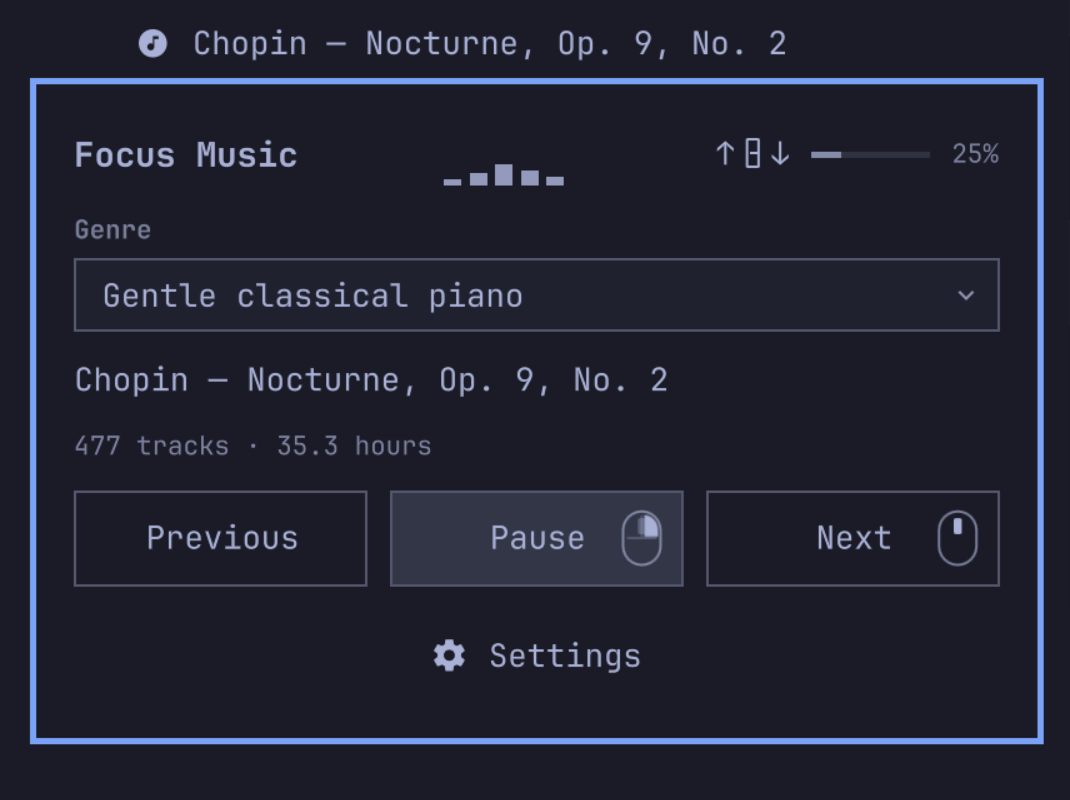
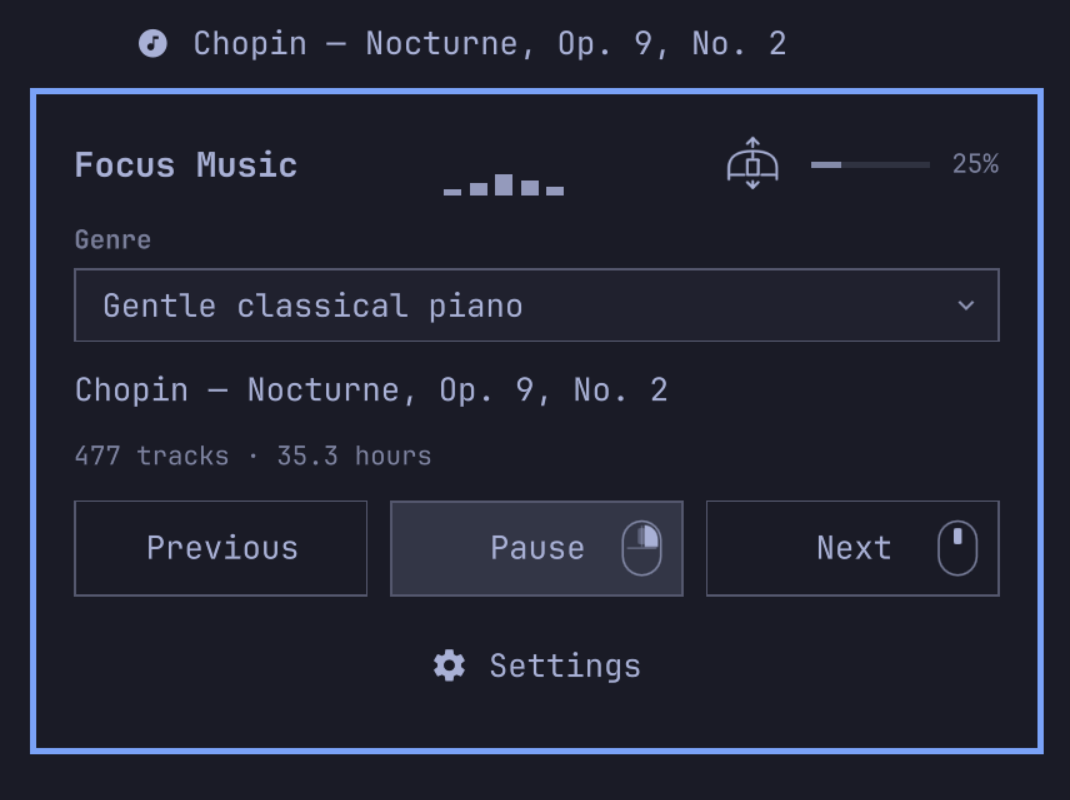
Use cropped mouse scroll hint with close arrows and plain wheel

diff --git a/MouseHint.qml b/MouseHint.qml
@@ -63,38 +63,52 @@ Item {
         visible: root.button !== "scroll"
         opacity: button === "middle" ? 1 : 0.35
     }
-    Rectangle {
+    Canvas {
         visible: root.button === "scroll"
-        anchors.centerIn: parent
-        width: Style.space(5)
-        height: Style.space(11)
-        radius: Style.space(1)
-        color: "transparent"
-        border.width: Style.space(1)
-        border.color: Color.foreground
-        Rectangle {
-            anchors.centerIn: parent
-            width: parent.width - Style.space(2)
-            height: Style.space(1)
-            color: Color.foreground
+        anchors.fill: parent
+        readonly property color ink: Color.foreground
+        onInkChanged: requestPaint()
+        onWidthChanged: requestPaint()
+        onHeightChanged: requestPaint()
+        onPaint: {
+            var ctx = getContext("2d")
+            ctx.reset()
+            ctx.scale(width / 34, height / 26)
+            ctx.strokeStyle = ink
+            ctx.lineWidth = 1.2
+            ctx.lineCap = "round"
+            ctx.lineJoin = "round"
+            // Zoom into the mouse buttons; leave the bottom edges open.
+            ctx.beginPath()
+            ctx.moveTo(6, 20)
+            ctx.lineTo(6, 14.8)
+            ctx.quadraticCurveTo(6, 7, 17, 7)
+            ctx.quadraticCurveTo(28, 7, 28, 14.8)
+            ctx.lineTo(28, 20)
+            ctx.stroke()
+            // Plain wheel outline, without internal horizontal marks.
+            ctx.strokeRect(14.5, 11, 5, 7)
+            ctx.beginPath()
+            ctx.moveTo(17, 8)
+            ctx.lineTo(17, 10)
+            ctx.moveTo(7, 18)
+            ctx.lineTo(13, 18)
+            ctx.moveTo(21, 18)
+            ctx.lineTo(27, 18)
+            ctx.stroke()
+            // Up above and down just below the cropped mouse.
+            ctx.beginPath()
+            ctx.moveTo(14.5, 3.5)
+            ctx.lineTo(17, 1)
+            ctx.lineTo(19.5, 3.5)
+            ctx.moveTo(17, 1)
+            ctx.lineTo(17, 5)
+            ctx.moveTo(17, 21)
+            ctx.lineTo(17, 24)
+            ctx.moveTo(14.5, 21.5)
+            ctx.lineTo(17, 24)
+            ctx.lineTo(19.5, 21.5)
+            ctx.stroke()
         }
-    }
-    Text {
-        visible: root.button === "scroll"
-        anchors.left: parent.left
-        anchors.verticalCenter: parent.verticalCenter
-        text: "↑"
-        color: Color.foreground
-        font.family: Style.font.family
-        font.pixelSize: Style.font.body
-    }
-    Text {
-        visible: root.button === "scroll"
-        anchors.right: parent.right
-        anchors.verticalCenter: parent.verticalCenter
-        text: "↓"
-        color: Color.foreground
-        font.family: Style.font.family
-        font.pixelSize: Style.font.body
     }
 }
